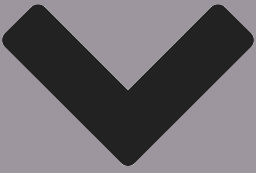
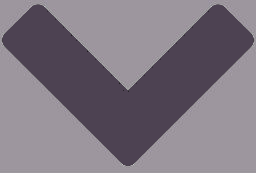
[~] change nav bar style

diff --git a/app/assets/stylesheets/application_layout/application_nav.scss b/app/assets/stylesheets/application_layout/application_nav.scss
@@ -11,22 +11,29 @@
     justify-content: center;
   }
   .navbar-a-home {
-    margin-left: 100px;
-  }
-}
-
-.navbar-brand:hover {
-  &:hover {
     color: $color-white;
   }
 }
 
-.navbar-default .navbar-nav > li > a:hover {
+.navbar-a-home {
   color: $color-white;
 }
 
+.navbar-brand:hover {
+  &:hover {
+    color: #d2d2d2;
+  }
+}
+
+.navbar-default .navbar-nav > li > a {
+  color: $color-white;
+  &:hover {
+    color: #d2d2d2;
+  }
+}
+
 .navbar-a {
-  color: #9D979F;
+  color: $color-white;
   font-size: 30px;
   @media (min-width: $media-min-width-on-big-devise) {
     margin: {
@@ -36,9 +43,41 @@
   }
 }
 
+.navbar-a-chose {
+  text-decoration: underline;
+}
+
 .form-search {
+  @media (min-width: $media-min-width-on-big-devise) {
+    margin-right: 30px;
+  }
+  padding: 0 20px;
   border-radius: 0;
-  margin-right: -5px;
+  width: 200px;
+  height: 37px;
+  border: none;
+  font-size: 20px;
+  &::-webkit-input-placeholder {
+    /* WebKit, Blink, Edge */
+    color: #5D4852;
+  }
+
+  &:-moz-placeholder {
+    /* Mozilla Firefox 4 to 18 */
+    color: #5D4852;
+    opacity: 1;
+  }
+
+  &::-moz-placeholder {
+    /* Mozilla Firefox 19+ */
+    color: #5D4852;
+    opacity: 1;
+  }
+
+  &:-ms-input-placeholder {
+    /* Internet Explorer 10-11 */
+    color: #5D4852;
+  }
 }
 
 .button-search {
@@ -80,17 +119,27 @@ select option {
   background-image: url('header/chevron-down.png');
   background-position: right center;
   background-repeat: no-repeat;
-  background-size: 40px;
+  background-size: 55px;
 
+  border: 0;
   border-radius: 0;
-  width: 150px;
-  height: 31px;
+  width: 200px;
+  height: 37px;
   background-color: #4D4252;
   color: $color-white;
+  font-size: 20px;
+  padding: 0 20px;
+  .first-option {
+    p {
+      margin-left: 30px;
+    }
+  }
   option {
     background-color: $color-white;
     color: black;
+    padding: 0 20px;
     p {
+      margin-left: 30px;
       color: $color-white;
     }
   }

diff --git a/app/assets/stylesheets/another.scss b/app/assets/stylesheets/another.scss
@@ -1,3 +1,5 @@
+@import "variables";
+
 body {
   background-color: #EEEEEE;
 }
@@ -33,6 +35,12 @@ p {
     padding-bottom: 10px;
   }
 }
+
 input[type="file"] {
   cursor: pointer;
+}
+
+.navbar > .container .navbar-brand, .navbar > .container-fluid .navbar-brand {
+  margin: 0;
+  color: $color-white;
 }

diff --git a/app/helpers/nav_helper.rb b/app/helpers/nav_helper.rb
@@ -23,4 +23,36 @@ module NavHelper
       content
     end
   end
+
+  def if_user_signed_show_chose_link_with_text_decoration
+    if user_signed_in?
+      if request.original_fullpath == root_path
+        links = []
+        links << content_tag(:li, link_to(t('views.link_to.my_initiatives'), user_panels_path, class: 'navbar-a'))
+        links << content_tag(:li, link_to(t('views.link_to.my_data'), user_panels_information_path, class: 'navbar-a'))
+        links << content_tag(:li, link_to(t('views.link_to.created'), new_initiative_path, class: 'navbar-a'))
+        return links.join
+      elsif request.original_fullpath == user_panels_path
+        links = []
+        links << content_tag(:li, link_to(t('views.link_to.my_initiatives'), user_panels_path, class: 'navbar-a navbar-a-chose'))
+        links << content_tag(:li, link_to(t('views.link_to.my_data'), user_panels_information_path, class: 'navbar-a'))
+        links << content_tag(:li, link_to(t('views.link_to.created'), new_initiative_path, class: 'navbar-a'))
+        return links.join
+      elsif request.original_fullpath == user_panels_information_path
+        links = []
+        links << content_tag(:li, link_to(t('views.link_to.my_initiatives'), user_panels_path, class: 'navbar-a'))
+        links << content_tag(:li, link_to(t('views.link_to.my_data'), user_panels_information_path, class: 'navbar-a navbar-a-chose'))
+        links << content_tag(:li, link_to(t('views.link_to.created'), new_initiative_path, class: 'navbar-a'))
+        return links.join
+      elsif request.original_fullpath == new_initiative_path
+        links = []
+        links << content_tag(:li, link_to(t('views.link_to.my_initiatives'), user_panels_path, class: 'navbar-a'))
+        links << content_tag(:li, link_to(t('views.link_to.my_data'), user_panels_information_path, class: 'navbar-a'))
+        links << content_tag(:li, link_to(t('views.link_to.created'), new_initiative_path, class: 'navbar-a navbar-a-chose'))
+        return links.join
+      end
+    else
+      content_tag(:li, link_to(t('views.link_to.created'), new_initiative_path, class: 'navbar-a'))
+    end
+  end
 end

diff --git a/db/seeds.rb b/db/seeds.rb
@@ -17,14 +17,16 @@ unless User.with_any_role(:admin).any?
   user.add_role 'user'
   puts "Користувача добавлено, email(user@user.com), password(123456)"
 end
-# add category
-category = Category.new
-category.name = 'Місто'
-category.save
-category = Category.new
-category.name = 'Подвіря'
-category.save
-puts "Категорії додані"
+unless Category
+  # add category
+  category = Category.new
+  category.name = 'Місто'
+  category.save
+  category = Category.new
+  category.name = 'Подвіря'
+  category.save
+  puts "Категорії додані"
+end
 # add initiatives
 initiative = Initiative.new
 initiative.title = 'Прибрати вулицю'
@@ -62,4 +64,4 @@ initiative_category = InitiativeCategory.new
 initiative_category.initiative_id = 2
 initiative_category.category_id = 1
 initiative_category.save
-puts "Категорії додані"
+puts "Категорії додані до ініціатив"

diff --git a/app/helpers/initiatives_helper.rb b/app/helpers/initiatives_helper.rb
@@ -26,7 +26,7 @@ module InitiativesHelper
     if initiative.main_picture.url(:medium) == '/images/medium/missing.png'
       image_tag 'initiatives/default-initiative-image.jpg', class: 'list-images'
     else
-      image_tag initiative.main_picture.url, class: 'list-images'
+      image_tag initiative.main_picture.url(:medium), class: 'list-images'
     end
   end
 end
